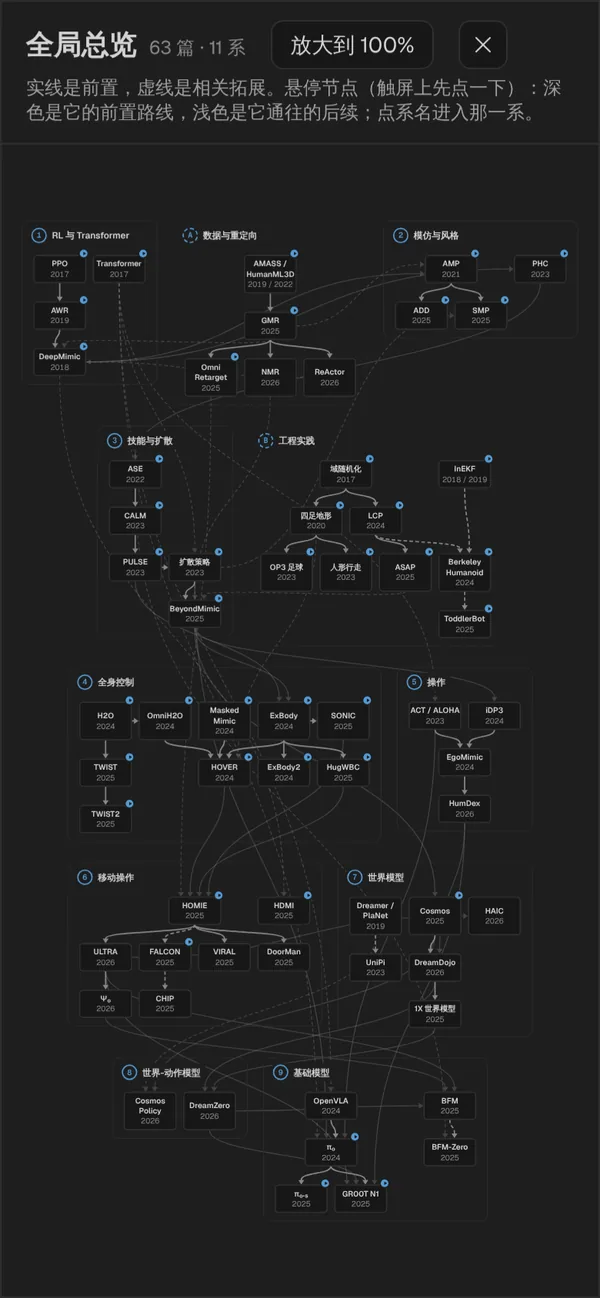
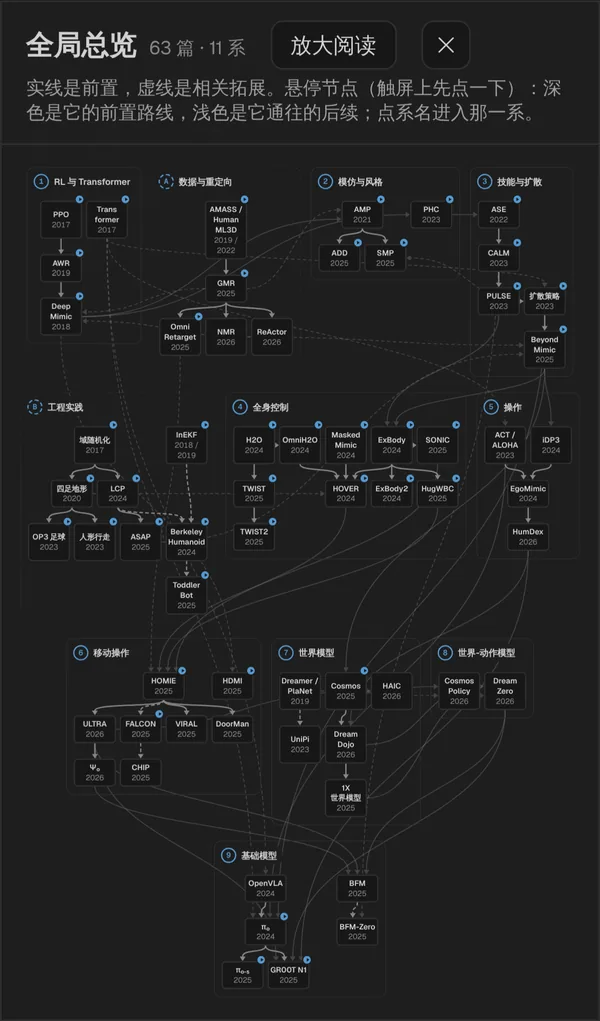
perf(Site): 首页等没有流程图的页面不再加载 Mermaid；全局总览放大阅读只上下滚
- Mermaid、mermaid-config.js、mermaid-zoom.js 与 DOMPurify 只在论文页加载。
  手机 4 倍降速实测首页：传输约 1610 KB → 881 KB，脚本约 950 ms → 230 ms，
  主线程任务约 1530 ms → 820 ms；PPO 笔记 14 张图照常渲染、换主题照常重画。
  引导脚本见 mermaidScriptState === 'absent' 直接返回，不再给首页标 mermaid-unavailable
- 全局总览：手机上全貌缩到 0.33–0.46（字 4–5px）只够看结构，原来的「放大到 100%」
  要上下左右拖 3 × 2.7 屏。改成「放大阅读」：取宽度放得下的排法、只上下滚，
  手机上节点收窄，iPhone 13 约 11px、320px 宽约 9px、Pixel 7 与桌面 12px
- Transformer、DeepMimic 加零宽空格；节点名 word-break: keep-all，中文名不在词中间断开

Claude-Session: https://claude.ai/code/session_01D1S85DCHhX8Fps2cv965B1

diff --git a/assets/js/roadmap.js b/assets/js/roadmap.js
@@ -8,7 +8,7 @@
      #roadmap-node-details，由 _data/papers.json 生成）。触屏点按直接打开笔记，不弹卡片；
      卡片 pointer-events: none，不挡点击；
    - 全局总览：一个窗口里把 11 系按 map_order 排开，所有节点和所有箭头（含跨系的）一起画，
-     按窗口大小挑排法、缩放到放得下；悬停节点点亮它的整条前置路线（深色）和后续（浅色）。
+     按窗口大小挑排法、缩放到放得下，也可以放大阅读（只上下滚）；悬停节点点亮它的整条前置路线（深色）和后续（浅色）。
    路线图收在 <details> 里，收起时什么都不画，展开或换系时只画当前这一棵。 */
 (function () {
   'use strict';
@@ -744,11 +744,14 @@
 
     document.body.appendChild(el);
     map = { el: el, viewport: viewport, sizer: sizer, canvas: canvas, svg: svg, zoom: zoom, close: close,
-      fitScale: 1, scale: 1, zoomed: false, opener: null, pointerType: '', armed: null };
+      layouts: null, scale: 1, zoomed: false, opener: null, pointerType: '', armed: null };
   }
 
-  /* 按窗口大小挑一种排法：各系从左到右排、放不下就换行，试一遍不同的总宽度，
-     取缩放比例最大（同样大时取长宽比最接近窗口）的那一种。 */
+  /* 按窗口大小挑排法。各系从左到右排、放不下就换行，试一遍不同的总宽度，备好两种看法：
+     - 全貌：整张缩放到放得下，取缩放比例最大（同样大时长宽比最接近窗口）的排法；
+     - 放大阅读：不横向拖动。取宽度放得下的最宽排法、按原大显示，只上下滚；连最窄的
+       排法（一列）都放不下时（手机），缩到正好占满宽度。
+     手机上两种都比原大小：全貌的字只有 4–5px，只用来看结构；放大阅读时约 9–11px。 */
   function fitMap() {
     var canvas = map.canvas;
     var style = getComputedStyle(map.viewport);
@@ -767,36 +770,44 @@
     var canvasStyle = getComputedStyle(canvas);
     var pad = parseFloat(canvasStyle.paddingLeft) + parseFloat(canvasStyle.paddingRight);
     var gap = parseFloat(canvasStyle.columnGap) || 0;
-    var best = null;
-    for (var width = widest + pad; width <= total + pad + gap * clusters.length; width += 24) {
+    var whole = null;
+    var read = null;
+    var narrowest = null;
+    for (var width = Math.ceil(widest + pad); width <= total + pad + gap * clusters.length; width += 24) {
       canvas.style.width = width + 'px';
       var height = canvas.offsetHeight;
+      var layout = { width: width, height: height };
+      if (!narrowest) narrowest = layout;
       var scale = Math.min(1, availW / width, availH / height);
       var shape = Math.abs(Math.log((width / height) / (availW / availH)));
-      if (!best || scale > best.scale + 0.01 || (scale > best.scale - 0.01 && shape < best.shape)) {
-        best = { width: width, height: height, scale: scale, shape: shape };
+      if (!whole || scale > whole.scale + 0.01 || (scale > whole.scale - 0.01 && shape < whole.shape)) {
+        whole = { width: width, height: height, scale: scale, shape: shape };
       }
+      if (width <= availW && (!read || width > read.width)) read = { width: width, height: height, scale: 1 };
     }
-    canvas.style.width = best.width + 'px';
-    map.width = best.width;
-    map.height = canvas.offsetHeight;
-    map.fitScale = best.scale;
+    if (!read) read = { width: narrowest.width, height: narrowest.height, scale: availW / narrowest.width };
+    map.layouts = { whole: whole, read: read };
     applyScale();
   }
 
   function applyScale() {
-    var scale = map.zoomed ? 1 : map.fitScale;
+    var layout = map.zoomed ? map.layouts.read : map.layouts.whole;
+    var scale = layout.scale;
     map.scale = scale;
+    map.canvas.style.width = layout.width + 'px';
     map.canvas.style.transform = scale === 1 ? 'none' : 'scale(' + scale + ')';
-    map.sizer.style.width = Math.ceil(map.width * scale) + 'px';
-    map.sizer.style.height = Math.ceil(map.height * scale) + 'px';
-    var canZoom = map.fitScale < 0.98;
-    map.zoom.hidden = !canZoom;
-    var label = map.zoomed ? ['Fit to window', '适应窗口'] : ['Actual size', '放大到 100%'];
+    var height = map.canvas.offsetHeight;
+    map.sizer.style.width = Math.ceil(layout.width * scale) + 'px';
+    map.sizer.style.height = Math.ceil(height * scale) + 'px';
+    // 全貌已经是原大小时不需要放大。
+    map.zoom.hidden = map.layouts.whole.scale >= 0.98;
+    var label = map.zoomed ? ['Show everything', '缩小看全貌'] : ['Zoom in to read', '放大阅读'];
     map.zoom.setAttribute('data-en', label[0]);
     map.zoom.setAttribute('data-zh', label[1]);
     map.zoom.textContent = isZh() ? label[1] : label[0];
     map.el.classList.toggle('is-zoomed', map.zoomed);
+    map.viewport.scrollTop = 0;
+    map.viewport.scrollLeft = 0;
     hideCard();
     clearMapTrace();
     drawEdges(map.svg, map.canvas, edges, function (node) { return node.mapEl; }, scale);

diff --git a/_layouts/default.html b/_layouts/default.html
@@ -270,6 +270,15 @@
   {%- else %}
   <script>window.katexEnabled = false;</script>
   {%- endif %}
+  {%- comment -%}
+    Mermaid 只有论文页用得上（paper.js 把笔记里的流程图代码块换成图）。首页、更新记录、
+    404 没有一张图，以前照样下载 mermaid（约 710 KB）和 DOMPurify：手机 4 倍降速下
+    首页因此多传约 717 KB、多跑约 0.95 s 脚本。这些页不再加载，下面的引导脚本见
+    mermaidScriptState === 'absent' 直接返回。
+  {%- endcomment -%}
+  {%- assign needs_mermaid = false -%}
+  {%- if page.layout == "paper" -%}{%- assign needs_mermaid = true -%}{%- endif -%}
+  {%- if needs_mermaid %}
   <!-- DOMPurify (pinned + SRI). Only mermaid's SVG goes through it, so it
        can wait for the parser like everything else below. -->
   <script defer
@@ -299,6 +308,7 @@
   <script src="{{ '/assets/js/mermaid-config.js' | relative_url }}{% if mermaid_config_js %}?v={{ mermaid_config_js.modified_time | date: '%s' }}{% endif %}" defer></script>
   {% assign mermaid_zoom_js = site.static_files | where: "path", "/assets/js/mermaid-zoom.js" | first %}
   <script src="{{ '/assets/js/mermaid-zoom.js' | relative_url }}{% if mermaid_zoom_js %}?v={{ mermaid_zoom_js.modified_time | date: '%s' }}{% endif %}" defer></script>
+  {%- endif %}
   <script>
     var mermaidRunPending = false;
 
@@ -307,14 +317,15 @@
        `error` fire on the element, and a watchdog covers a request that just
        hangs. Registered right here, in the very next script after the tag,
        so neither event can slip past. */
-    var mermaidScriptState = 'loading'; // 'loading' | 'ready' | 'failed'
+    var mermaidScriptState = 'loading'; // 'loading' | 'ready' | 'failed' | 'absent'
     var mermaidWaitTimer = null;
     var MERMAID_WAIT_TIMEOUT_MS = 20000;
 
     (function () {
       var tag = document.getElementById('mermaid-script');
       if (!tag) {
-        mermaidScriptState = 'failed';
+        // A page without diagrams (home, update log, 404) does not load mermaid.
+        mermaidScriptState = 'absent';
         return;
       }
       tag.addEventListener('load', function () {
@@ -345,6 +356,7 @@
     var mermaidInitQueued = false;
 
     function initMermaid(theme) {
+      if (mermaidScriptState === 'absent') return;
       var root = document.documentElement;
       if (document.readyState === 'loading') {
         // Called while the document is still parsing (the theme script at the

diff --git a/assets/css/style.css b/assets/css/style.css
@@ -1922,11 +1922,13 @@ details[open] > .roadmap-entry:hover .roadmap-entry-arrow { transform: rotate(-9
   outline-offset: 2px;
 }
 
+/* 中文名不在词中间断开（「1X 世界模 / 型」）；放不下的长词仍可从任意处折行。 */
 .tt-node-name {
   max-width: 100%;
   font-size: 14px;
   font-weight: 600;
   line-height: 20px;
+  word-break: keep-all;
   overflow-wrap: anywhere;
   hyphens: auto;
 }
@@ -2357,6 +2359,24 @@ body.tt-map-is-open {
 
   .tt-map-viewport {
     padding: 8px;
+  }
+
+  /* 手机上节点收窄，最宽的「全身控制」一系（5 列）放大阅读时正好约占满一屏宽。 */
+  .tt-map-canvas {
+    gap: 24px 16px;
+  }
+
+  .tt-cluster {
+    padding: 8px 8px 4px;
+  }
+
+  .tt-tree.tt-tree--map {
+    --tt-half: 36px;
+    row-gap: 24px;
+  }
+
+  .tt-tree--map .tt-node {
+    margin: 0 3px;
   }
 }
 

diff --git a/tests/test_mermaid_async_load.py b/tests/test_mermaid_async_load.py
@@ -72,3 +72,18 @@ def test_dom_content_loaded_hook_does_not_render_twice():
     # DOMContentLoaded call fires; a second initialize() + run would re-render
     # every diagram and flash them.
     assert "if (!window.mermaidConfigured) initMermaid(currentSiteTheme());" in INIT_BODY
+
+
+def test_pages_without_diagrams_do_not_load_mermaid():
+    # Only paper notes have diagrams. The home page used to download mermaid
+    # (~717 KB) and DOMPurify and run ~0.95 s of script on a 4x-throttled phone
+    # for nothing; it no longer loads them, and the bootstrap stands down.
+    gate = HEAD.split("{%- if needs_mermaid %}", 1)
+    assert len(gate) == 2, "mermaid tags must sit inside {%- if needs_mermaid %}"
+    gated = gate[1].split("{%- endif %}", 1)[0]
+    for name in ("purify.min.js", "mermaid.min.js", "mermaid-config.js", "mermaid-zoom.js"):
+        assert name in gated, name
+        assert name not in gate[0], name
+    assert '{%- if page.layout == "paper" -%}{%- assign needs_mermaid = true -%}{%- endif -%}' in HEAD
+    assert "mermaidScriptState = 'absent';" in HEAD
+    assert INIT_BODY.lstrip().startswith("if (mermaidScriptState === 'absent') return;")

diff --git a/tests/test_roadmap_tree.py b/tests/test_roadmap_tree.py
@@ -138,13 +138,10 @@ def test_the_roadmap_has_no_cycles():
 
 
 def test_long_unbroken_labels_can_wrap_on_phones():
-    # 4 列以上的树在手机上节点只有约 58px 宽；没有空格的长名要在中间放零宽空格，
-    # 否则会被硬拆成「HugWB / C」。窄树的节点在手机上照样有 100px 宽，不受限。
-    for branch in BRANCHES:
-        if max(float(node["col"]) for node in branch["nodes"]) < 4:
-            continue
-        for node in branch["nodes"]:
-            _check_words(node)
+    # 手机上全局总览里每个节点只有约 64px 宽（4 列以上的树在分系视图里约 58px）；
+    # 没有空格的长名要在中间放零宽空格，否则会被硬拆成「Transfor / mer」「HugWB / C」。
+    for node in NODES.values():
+        _check_words(node)
 
 
 def _check_words(node: dict) -> None:

diff --git a/tests/test_roadmap_links.py b/tests/test_roadmap_links.py
@@ -119,7 +119,9 @@ def test_global_overview_window_shows_every_node_and_route():
     assert "drawEdges(map.svg, map.canvas, edges," in js
     assert "el.setAttribute('aria-modal', 'true');" in js
     assert "if (map && !map.el.hidden) closeMap();" in js
-    # 按窗口大小挑排法、缩放到放得下，也可以放大到 100% 滚动看。
+    # 按窗口大小挑排法、缩放到放得下；放大阅读时只上下滚，不横向拖动。
     assert "function fitMap()" in js and "map.zoomed = !map.zoomed;" in js
+    assert "if (width <= availW && (!read || width > read.width))" in js
+    assert "scale: availW / narrowest.width" in js
     # 触屏上第一次点只点亮路线，第二次才打开笔记。
     assert "map.pointerType !== 'touch' || map.armed === node.id" in js
